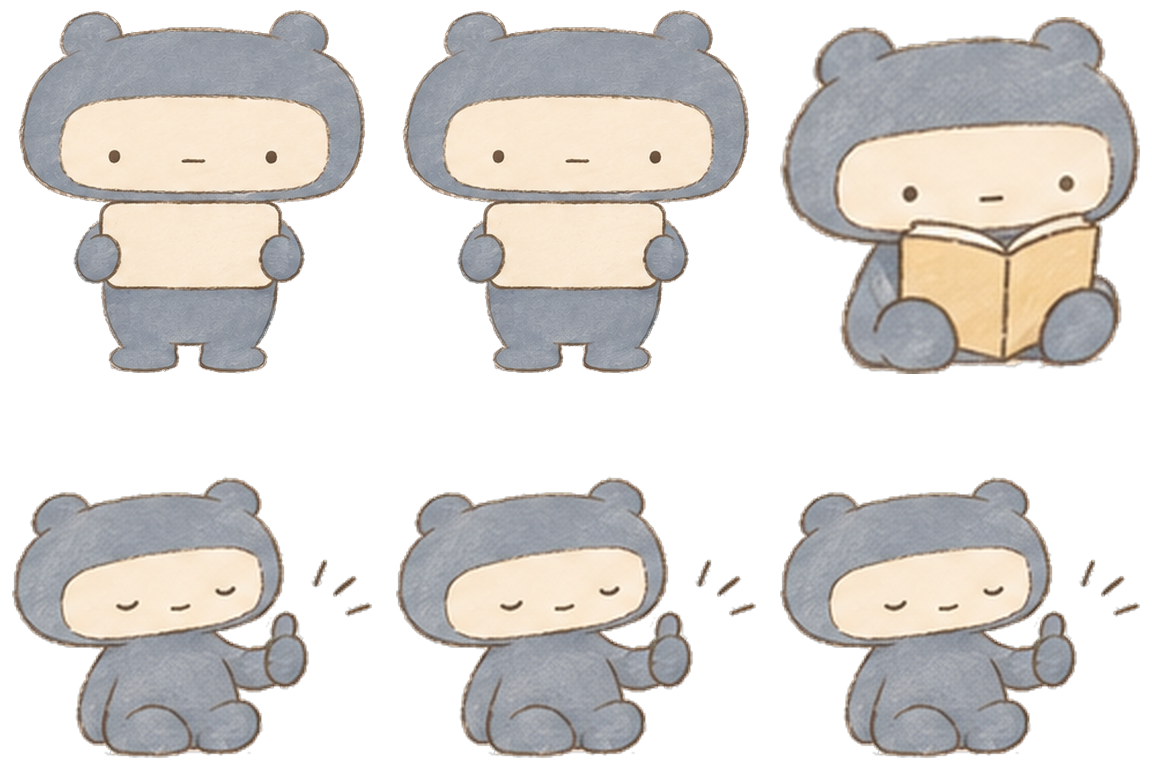
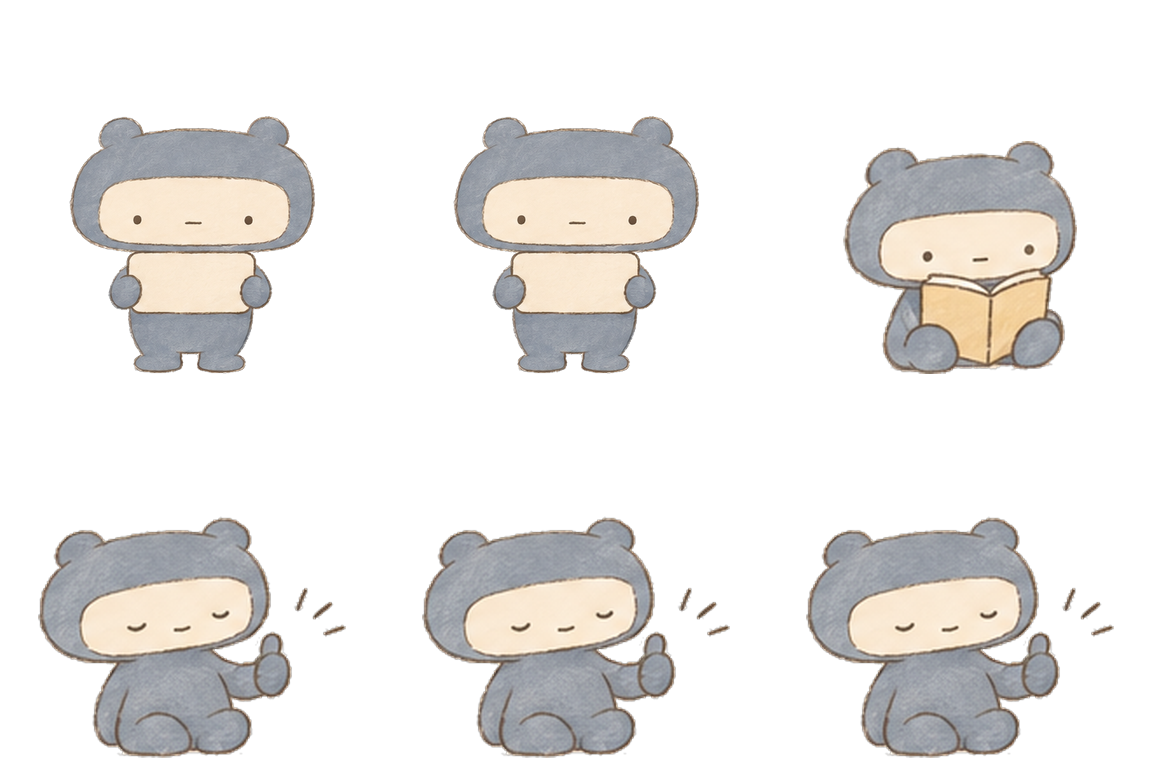
1단 주어 그림: We는 말문이를 가운데 둔 셋 · They는 손 든 말문이가 점선 화살표로 저쪽 두 친구를 가리킴 · 세 친구 같은 배율로 다시 자름

diff --git a/js/app.js b/js/app.js
@@ -316,17 +316,20 @@ const STAGE = `<div class="stage">
     <div class="stage-bar"><span class="stage-note" id="stage-note">선생님 원음을 준비하고 있어요</span><button class="btn ghost" id="beatstop">■ 그만</button></div>
   </div>`;
 
-// 1단 주어 그림: I는 말문이 자신, We는 말문이를 포함한 셋, They는 말문이가 가리키는 두 친구
+// 1단 주어 그림: I는 말문이 자신, We는 말문이를 가운데 둔 셋, They는 손을 든 말문이가 가리키는 저쪽 두 친구(작게 = 멀리)
 // 여러 친구를 한 칸에 겹쳐 세운다 (예전 group-we/they 그림은 옛 캐릭터라 쓰지 않는다)
-const group = (poses, label) => `<span class="group n${poses.length}" role="img" aria-label="${esc(label)}">${poses.join("")}</span>`;
+const group = (poses, label, cls = "") => `<span class="group n${poses.length} ${cls}" role="img" aria-label="${esc(label)}">${poses.join("")}</span>`;
+// They: 말문이 손끝에서 저쪽 두 친구로 이어지는 점선 화살표
+const POINT = `<svg class="point" viewBox="0 0 60 30" aria-hidden="true"><path d="M4 22 Q30 2 52 14" fill="none" stroke="#65584E" stroke-width="2.5" stroke-dasharray="5 5" stroke-linecap="round"/><path d="M44 8 L54 15 L43 19" fill="none" stroke="#65584E" stroke-width="2.5" stroke-linecap="round" stroke-linejoin="round"/></svg>`;
 
 function whoPanel(lines) {
   const fig = (i, img, title, desc) => `<button class="who card" data-i="${i}">${img}<span><b>${title}</b>${desc}</span></button>`;
   return `<h3 class="sec">누가 누구일까요? <span class="quiet">그림을 누르면 들려줘요</span></h3>
     <div class="who-grid">
       ${fig(0, pose("nuri", "self", { label: "자기 자신을 가리키는 말문이" }), esc(lines[0]), "말하는 나, 말문이")}
-      ${fig(2, group([pose("nuri", "self"), pose("minty", "welcome"), pose("bobo", "welcome")], "말문이, 귀담이, 차분이가 함께 있는 모습"), esc(lines[2]), "말문이를 포함한 우리 셋")}
-      ${fig(3, group([pose("minty", "welcome"), pose("bobo", "welcome")], "저쪽에 함께 서 있는 귀담이와 차분이"), esc(lines[3]), "말문이가 가리키는 저 두 친구")}
+      ${fig(2, group([pose("minty", "welcome"), pose("nuri", "self"), pose("bobo", "welcome")], "말문이가 가운데에서 귀담이, 차분이와 나란히 선 모습", "we"), esc(lines[2]), "말문이를 포함한 우리 셋")}
+      ${fig(3, `<span class="group they" role="img" aria-label="말문이가 손을 들어 저쪽의 귀담이와 차분이를 가리키는 모습">
+          ${pose("nuri", "rhythm")}${POINT}<span class="far">${pose("minty", "welcome")}${pose("bobo", "welcome")}</span></span>`, esc(lines[3]), "말문이가 가리키는 저 두 친구")}
     </div>`;
 }
 

diff --git a/css/style.css b/css/style.css
@@ -369,12 +369,18 @@ p.cheer { margin: 12px 0 0; }
 /* 1단 주어 그림 */
 .who-grid { display: grid; grid-template-columns: repeat(3, 1fr); gap: 10px; }
 .who { display: flex; flex-direction: column; align-items: center; justify-content: space-between; gap: 8px; padding: 12px; text-align: center; }
-.who .pose { width: min(100%, 132px); }
-.who .group { display: flex; justify-content: center; align-items: flex-end; width: 100%; }
-.who .group .pose { width: 58%; }
-.who .group .pose + .pose { margin-left: -21%; }
-.who .group.n2 .pose { width: 70%; }
-.who .group.n2 .pose + .pose { margin-left: -40%; }
+.who > .pose { width: min(62%, 120px); }
+.who > .pose, .who .group { margin-top: auto; } /* 그림 셋의 발끝을 맞춘다 */
+/* We · They는 I 그림(132px)과 같은 몸집으로 보이게 폭을 묶는다. 시트 칸 좌우 여백이 넓어 칸끼리 겹쳐 세운다 */
+.who .group { position: relative; display: flex; justify-content: center; align-items: flex-end; width: 100%; max-width: 250px; }
+.who .group.we .pose { width: 46%; }
+.who .group.we .pose + .pose { margin-left: -19%; }
+.who .group.we .pose:nth-child(2) { position: relative; z-index: 1; }
+.who .group.they > .pose { width: 50%; margin-right: -10%; }
+.who .group.they .far { display: flex; align-items: flex-end; width: 56%; margin-bottom: 8%; }
+.who .group.they .far .pose { width: 66%; }
+.who .group.they .far .pose + .pose { margin-left: -32%; }
+.who .group.they .point { position: absolute; left: 34%; top: 2%; width: 26%; }
 .who span { font-size: 13px; color: var(--quiet); }
 .who b { display: block; font-size: 20px; color: var(--ink); }
 
